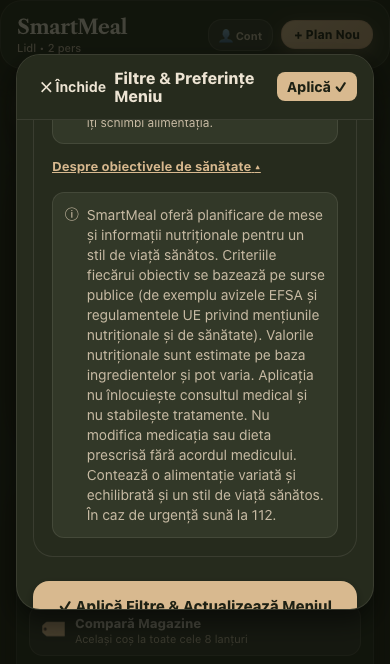
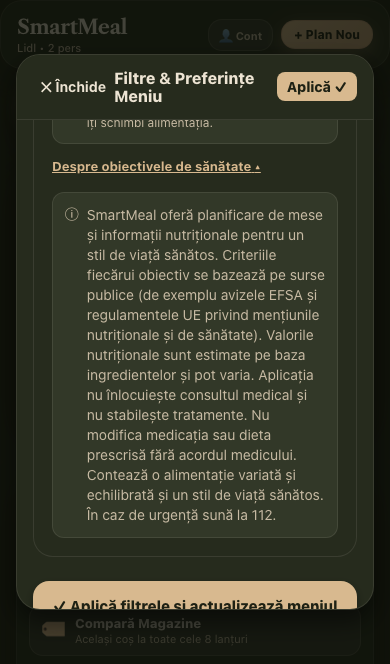
fix(a11y): the filters apply button is named by its visible words (A.11f-2)

Changed region(s): [[0.1538, 0.9036, 0.8615, 0.9337]]

diff --git a/e2e/stageA.spec.ts b/e2e/stageA.spec.ts
@@ -48,16 +48,6 @@ const RECIPE_BADGES = [
 const REMOVED_CLAIMS = /detox|somn odihnitor|energizant|antioxidant/i;
 const RETAIL_ENERGY_DRINK_LINE = /^Băutură energizantă /;
 
-/**
- * Found by this spec (A.11d), not part of Etapa A, left for a product fix: the filters'
- * apply button reads "✓ Aplică Filtre & Actualizează Meniul" but is named "Aplică Filtre și
- * Actualizează Meniul", so a voice-control user saying what they see does not hit it
- * (WCAG 2.5.3 Label in Name). Pinned by name so any other violation still fails the scan;
- * remove it once the label matches and this test will insist on an empty list again.
- */
-const KNOWN_FILTERS_APPLY_LABEL_MISMATCH =
-  /^label-content-name-mismatch <button aria-label="Aplică Filtre și Act/;
-
 const SCREENS_DIR = path.join(__dirname, '..', 'docs', 'testing', 'screens', 'stage-a');
 const MAX_ONBOARDING_STEPS = 12;
 
@@ -220,16 +210,7 @@ test.describe('Etapa A: the disclaimers after onboarding', () => {
     await expect(about).toHaveAttribute('aria-expanded', 'true');
     await snapAround(page, longText, 'filters-long-disclaimer-open');
     const failures = await accessibilityFailures(page, 'filters, long disclaimer open');
-    const known = failures.filter((f) => KNOWN_FILTERS_APPLY_LABEL_MISMATCH.test(f));
-    if (known.length) {
-      test.info().annotations.push({
-        type: 'known issue',
-        description: 'filters apply button: visible text "&" vs label "și" (WCAG 2.5.3)',
-      });
-      const apply = page.getByRole('button', { name: 'Aplică Filtre și Actualizează Meniul' });
-      await snapAround(page, apply, 'known-issue-filters-apply-label');
-    }
-    expect(failures.filter((f) => !known.includes(f))).toEqual([]);
+    expect(failures).toEqual([]);
 
     await about.click();
     await expect(longText).toHaveCount(0);

diff --git a/src/screens/QuickFiltersModal.tsx b/src/screens/QuickFiltersModal.tsx
@@ -475,12 +475,12 @@ const QuickFiltersForm: React.FC<QuickFiltersModalProps> = ({
             <View style={styles.bottomActionsCol}>
               <TouchableOpacity
                 accessibilityRole="button"
-                accessibilityLabel="Aplică Filtre și Actualizează Meniul"
+                accessibilityLabel="Aplică filtrele și actualizează meniul"
                 onPress={handleSave}
                 style={[styles.applyBtn, { backgroundColor: theme.primary }]}
                 activeOpacity={0.85}
               >
-                <Text style={[styles.applyBtnText, { color: theme.primaryText }]}>✓ Aplică Filtre & Actualizează Meniul</Text>
+                <Text style={[styles.applyBtnText, { color: theme.primaryText }]}>✓ Aplică filtrele și actualizează meniul</Text>
               </TouchableOpacity>
 
               <TouchableOpacity

diff --git a/src/screens/__tests__/allButtonsAndScenarios.component.test.tsx b/src/screens/__tests__/allButtonsAndScenarios.component.test.tsx
@@ -508,7 +508,10 @@ describe('TESTARE EXHAUSTIVĂ: Toate butoanele și scenariile din aplicație', (
         />
       );
       expect(screen.getByText(/📅 Zile de Gătit/i)).toBeTruthy();
-      fireEvent.press(screen.getByText('✓ Aplică Filtre & Actualizează Meniul'));
+      // WCAG 2.5.3: the name a voice user hears contains the words on the button.
+      const apply = screen.getByLabelText('Aplică filtrele și actualizează meniul');
+      expect(screen.getByText(/Aplică filtrele și actualizează meniul/)).toBeTruthy();
+      fireEvent.press(apply);
       expect(onApply).toHaveBeenCalled();
     });
 
